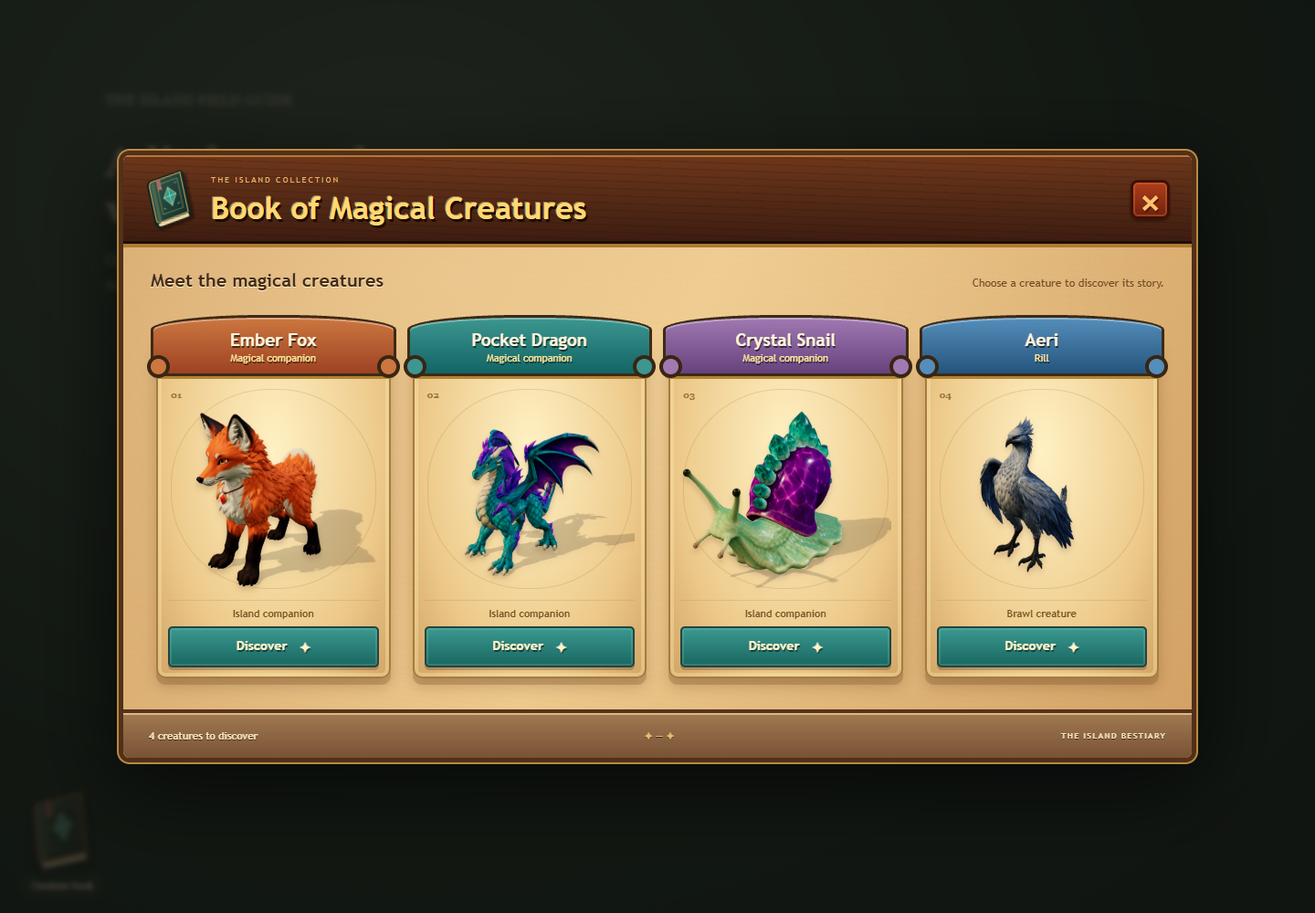
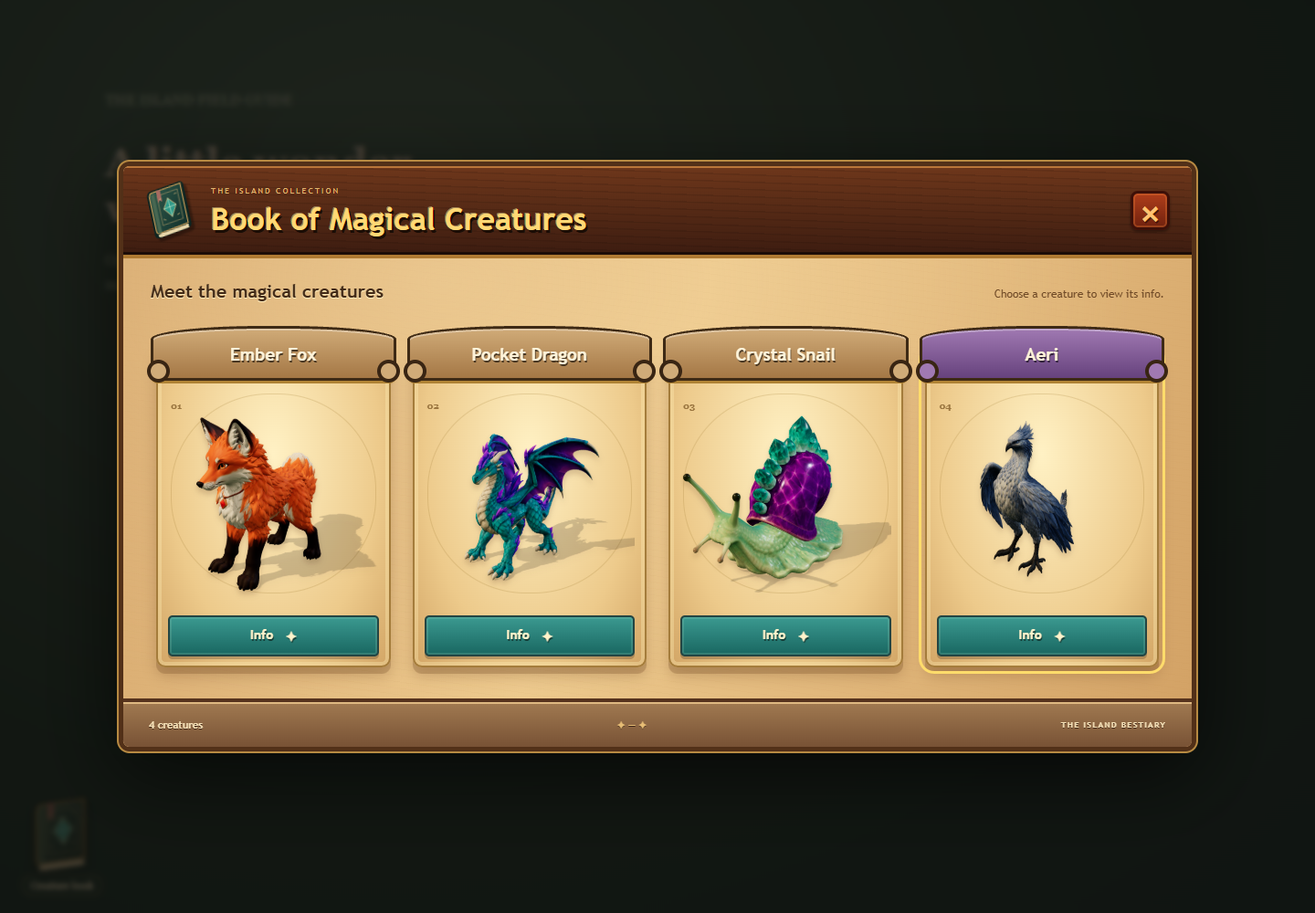
Fix validation bugs: prevent negative transfers/prices and self-transfers

Changed region(s): [[0.0938, 0.155, 0.9062, 0.837], [0.75, 0.465, 0.8125, 0.62]]

diff --git a/public/creature-book.js b/public/creature-book.js
@@ -1,4 +1,4 @@
-/* Read-only field guide. Creature entries never spend resources or change ownership. */
+/* Creature encyclopedia with server-persisted admin editorial fields. */
 (() => {
  const creatures=[
   {kind:'fox',name:'Ember Fox',number:'01',category:'WOODLAND WANDERER',feature:'Ruby pendant',movement:'Walks & runs',note:'Russet fur, alert ears, and a bright ruby pendant make this little wanderer easy to spot. Its careful steps and restless, bushy tail are full of curiosity.',detail:'Look closely: its ears twitch independently, and its paws lift with each step.',quote:'A little warmth on every island path.'},
@@ -7,44 +7,61 @@
   {kind:'snail',name:'Crystal Snail',number:'03',category:'GENTLE CRYSTAL CRAWLER',feature:'Crystal-crowned spiral shell',movement:'Crawls & explores',note:'An amethyst-colored shell crowned with teal crystals shelters this gentle explorer. Tiny waves travel through its soft foot while four curious feelers test the air ahead.',detail:'Look closely: the shell stays firm while the foot and feelers move beneath it.',quote:'Every small journey holds a little wonder.'},
   {kind:'rill',name:'Aeri',species:'Rill',number:'04',category:'RILL / BRAWL CREATURE',feature:'Blue plumage & sweeping wings',movement:'Perched idle',note:'Meet Aeri, a Rill with luminous blue feathers, a proud crest, and long, flowing tail plumes. A calm perched stance reveals the layered wings and graceful silhouette of this magical bird.',detail:'Look closely: Aeri breathes softly, turns its head, and gently settles its wings and tail.',quote:'Still wings. A sky full of possibility.',care:'Aeri is a brawl creature, not a pet. Its battle role and attacks will arrive in a future update.'}
  ];
+ const individualName=c=>c.kind==='rill'?c.name:'';
+ const title=c=>individualName(c)||c.species||c.name;
+ let metadata={},canEdit=false,gameReady=!document.body.classList.contains('island-app');
+ const api=typeof API_URL==='undefined'?'':API_URL;
+ const headers=()=>({'Content-Type':'application/json','X-User-Id':typeof currentUserId==='undefined'?'':currentUserId,'Authorization':`Bearer ${localStorage.getItem('sessionToken')||''}`});
  const icon=`<svg viewBox="0 0 84 96" aria-hidden="true"><defs><linearGradient id="creatureCover" x2="1" y2="1"><stop stop-color="#315b4b"/><stop offset="1" stop-color="#102e2a"/></linearGradient></defs><path d="M15 12 65 5q8-1 8 7v66q0 6-7 8L17 93q-9 1-9-7V23q0-9 7-11Z" fill="#0d2421"/><path d="m18 15 50-7v69l-50 8q-6 1-6-5V23q0-7 6-8Z" fill="url(#creatureCover)" stroke="#bb9555" stroke-width="2"/><path d="m19 86 49-7v6l-49 7q-5 0-5-4Z" fill="#e9d7aa"/><path d="m25 22 36-5v51l-36 5Z" fill="none" stroke="#bba16a" stroke-width=".8"/><path d="m15 19 6-1v66l-6 1Z" fill="#486751"/><path d="m42 29 12 13-10 19-12-15Z" fill="#2f9a8a" stroke="#e3c080"/><path d="m42 29 2 32m-12-15 22-4" fill="none" stroke="#bce3c2" stroke-width="1"/><path d="m25 13 7-1v21l-4-3-3 4Z" fill="#a66b61"/><path d="m28 63 4 2m21-5 4-2M28 29l3-2m23-3 4-1" stroke="#d4b778" stroke-linecap="round"/></svg>`;
  const el=(tag,cls,text)=>{const node=document.createElement(tag);if(cls)node.className=cls;if(text!==undefined)node.textContent=text;return node;};
- const launcher=el('button','creature-book-launcher');launcher.id='creatureBookLauncher';launcher.type='button';launcher.setAttribute('aria-label','Open the Book of Magical Creatures');launcher.setAttribute('aria-haspopup','dialog');launcher.setAttribute('aria-expanded','false');launcher.innerHTML=icon+'<span>Creature book</span>';document.body.append(launcher);
+ const launcher=el('button','creature-book-launcher');launcher.id='creatureBookLauncher';launcher.hidden=!gameReady;launcher.type='button';launcher.setAttribute('aria-label','Open the Book of Magical Creatures');launcher.setAttribute('aria-haspopup','dialog');launcher.setAttribute('aria-expanded','false');launcher.innerHTML=icon+'<span>Creature book</span>';document.body.append(launcher);
  const book=el('dialog','creature-book');book.id='creatureBook';book.setAttribute('aria-labelledby','creatureBookTitle');
- book.innerHTML=`<div class="creature-book-binding"><header class="creature-book-header"><span class="creature-book-emblem" aria-hidden="true">${icon}</span><div><p class="creature-book-overline">THE ISLAND COLLECTION</p><h1 id="creatureBookTitle">Book of Magical Creatures</h1></div><button type="button" class="creature-book-close" aria-label="Close creature book">&times;</button></header><div class="creature-book-gallery-heading"><h2>Meet the magical creatures</h2><p>Choose a creature to discover its story.</p></div><div class="creature-book-grid" aria-label="All magical creatures"></div><footer class="creature-book-footer"><span>${creatures.length} creatures to discover</span><span class="creature-book-footer-flourish" aria-hidden="true">&#10022; &mdash; &#10022;</span><span>THE ISLAND BESTIARY</span></footer></div>`;
+ book.innerHTML=`<div class="creature-book-binding"><header class="creature-book-header"><span class="creature-book-emblem" aria-hidden="true">${icon}</span><div><p class="creature-book-overline">THE ISLAND COLLECTION</p><h1 id="creatureBookTitle">Book of Magical Creatures</h1></div><button type="button" class="creature-book-close" aria-label="Close creature book">&times;</button></header><div class="creature-book-gallery-heading"><h2>Meet the magical creatures</h2><p>Choose a creature to view its info.</p></div><div class="creature-book-grid" aria-label="All magical creatures"></div><footer class="creature-book-footer"><span>${creatures.length} creatures</span><span class="creature-book-footer-flourish" aria-hidden="true">&#10022; &mdash; &#10022;</span><span>THE ISLAND BESTIARY</span></footer></div>`;
  document.body.append(book);
  const detail=el('dialog','creature-detail');detail.id='creatureDetail';detail.setAttribute('aria-labelledby','creatureDetailTitle');
- detail.innerHTML=`<header class="creature-detail-header"><h2 id="creatureDetailTitle"></h2><button type="button" class="creature-book-close" aria-label="Close creature information">&times;</button></header><div class="creature-detail-body"><section class="creature-detail-art" aria-label="Animated creature"><div class="creature-detail-banner"></div><div class="creature-book-portrait"></div><p class="creature-book-quote"></p></section><section class="creature-detail-info"><h3>Information</h3><dl class="creature-book-facts"></dl><p class="creature-book-lore"></p><p class="creature-book-observation"></p><div class="creature-detail-care"><h3></h3><p class="creature-book-care"></p></div></section></div><footer class="creature-detail-footer"><button type="button" class="creature-detail-back">&#8592; Back to creatures</button><button type="button" class="creature-book-model">View in 3D &#8599;</button></footer>`;
+ detail.innerHTML=`<header class="creature-detail-header"><h2 id="creatureDetailTitle"></h2><button type="button" class="creature-book-close" aria-label="Close creature information">&times;</button></header><div class="creature-detail-body"><section class="creature-detail-art" aria-label="Animated creature"><div class="creature-detail-banner"></div><div class="creature-book-portrait"></div></section><section class="creature-detail-info"><h3>Information</h3><dl class="creature-book-facts"></dl><p class="creature-book-lore"></p><dl class="creature-book-origin"></dl><section class="creature-individual"><h3>About this creature</h3><p></p></section></section></div><footer class="creature-detail-footer"><button type="button" class="creature-detail-back">&#8592; Back to creatures</button><button type="button" class="creature-edit-button" hidden>Edit entry</button></footer>`;
  document.body.append(detail);
  const q=selector=>book.querySelector(selector),d=selector=>detail.querySelector(selector);
  let selected=0,returnFocus=null,selectedCard=null;
- const role=c=>c.kind==='rill'?'Brawl creature':'Island companion';
+
  const poster=c=>c.kind==='rill'?'assets/creatures/aeri-poster.png':`assets/companions/${c.kind}-meshy-poster.png`;
  const species=c=>c.species||c.name;
- const tones={fox:'ember',dragon:'teal',snail:'violet',rill:'blue'};
+ const rarity=c=>metadata[c.kind]?.rarity||'unassigned';
  for(const [i,c] of creatures.entries()){
-  const card=el('button','creature-book-card');card.type='button';card.dataset.kind=c.kind;card.dataset.tone=tones[c.kind];card.setAttribute('aria-label',`Discover ${c.name}`);card.setAttribute('aria-haspopup','dialog');
-  card.innerHTML=`<span class="creature-card-ribbon"><strong>${c.name}</strong><span>${c.species||'Magical companion'}</span></span><span class="creature-card-number" aria-hidden="true">${c.number}</span><span class="creature-card-art"><img src="${poster(c)}" alt="" loading="eager"></span><span class="creature-card-role">${role(c)}</span><span class="creature-card-action">Discover <span aria-hidden="true">&#10022;</span></span>`;
+  const card=el('button','creature-book-card');card.type='button';card.dataset.kind=c.kind;card.dataset.rarity=rarity(c);card.setAttribute('aria-label',`Info about ${title(c)}`);card.setAttribute('aria-haspopup','dialog');
+  card.innerHTML=`<span class="creature-card-ribbon"><strong>${title(c)}</strong></span><span class="creature-card-number" aria-hidden="true">${c.number}</span><span class="creature-card-art"><img src="${poster(c)}" alt="" loading="eager"></span><span class="creature-card-action">Info <span aria-hidden="true">&#10022;</span></span>`;
   card.onclick=()=>showCreature(i,card);q('.creature-book-grid').append(card);
  }
- function showCreature(i,card){selected=i;selectedCard=card;const c=creatures[i];detail.dataset.tone=tones[c.kind];d('h2').textContent=c.name;d('.creature-detail-banner').textContent=role(c);d('.creature-book-quote').textContent=c.quote;
+ function renderInfo(){const c=creatures[selected],entry=metadata[c.kind]||{};detail.dataset.rarity=rarity(c);d('h2').textContent=title(c);d('.creature-detail-banner').textContent=title(c);
+  const facts=d('.creature-book-facts');facts.replaceChildren(el('dt','','Species'),el('dd','',species(c)));
+  d('.creature-book-lore').textContent=entry.description!==undefined?entry.description:c.kind==='rill'?'Rills are magical birds with blue plumage, a proud crest, layered wings, and long, flowing tail feathers.':c.note;
+  const origin=d('.creature-book-origin');origin.replaceChildren(el('dt','','Origin'),el('dd','',entry.origin||'Not recorded'));
+  d('.creature-individual').hidden=!individualName(c);d('.creature-individual p').textContent=entry.individualDescription||'No individual description recorded.';
+  d('.creature-edit-button').hidden=!canEdit;
+ }
+ function showCreature(i,card){selected=i;selectedCard=card;const c=creatures[i];renderInfo();
   const portrait=d('.creature-book-portrait');if(c.kind==='rill'){import('./companion-3d.js?v=rill1').catch(error=>console.error('Rill portrait:',error));portrait.innerHTML='<span class="companion-illustration companion-3d-art" data-species="rill" data-rill-3d aria-hidden="true"><img class="fox-model-poster" src="assets/creatures/aeri-poster.png" alt=""></span>';}else portrait.innerHTML=window.companionArt('pet:'+c.kind);
-  const facts=d('dl');facts.replaceChildren();for(const [label,value] of [['Species',species(c)],['Role',role(c)],['Movement',c.movement],['Signature',c.feature]])facts.append(el('dt','',label),el('dd','',value));
-  d('.creature-book-lore').textContent=c.note;d('.creature-book-observation').textContent=c.detail;d('.creature-detail-care h3').textContent=c.kind==='rill'?'Brawl status':'Life on the island';d('.creature-book-care').textContent=c.care||'Available in the Ruby shop. Companions stay in the Lodge and explore the island. Play, cooked meals, and a caretaker help them prepare for journeys.';
   detail.showModal();detail.scrollTop=0;d('.creature-book-close').focus();
  }
+ const editor=el('dialog','creature-entry-editor');editor.setAttribute('aria-labelledby','creatureEditorTitle');
+ editor.innerHTML=`<form><h2 id="creatureEditorTitle">Edit creature information</h2><label>Species description<textarea name="description" maxlength="2000" rows="5"></textarea></label><label>Origin<input name="origin" maxlength="200"></label><label class="creature-editor-individual">Individual description<textarea name="individualDescription" maxlength="2000" rows="4"></textarea></label><label>Rarity<select name="rarity" aria-label="Rarity"><option value="">Unassigned</option><option value="common">Common ? light brown</option><option value="rare">Rare ? blue</option><option value="epic">Epic ? red</option><option value="legendary">Legendary ? yellow</option><option value="unique">Unique ? purple</option></select></label><p role="status" class="creature-editor-status"></p><div><button type="button" class="creature-editor-cancel">Cancel</button><button type="submit">Save changes</button></div></form>`;document.body.append(editor);
+ const form=editor.querySelector('form'),field=name=>form.elements.namedItem(name);
+ d('.creature-edit-button').onclick=()=>{if(!canEdit)return;const c=creatures[selected],entry=metadata[c.kind]||{};field('description').value=d('.creature-book-lore').textContent;field('origin').value=entry.origin||'';field('individualDescription').value=entry.individualDescription||'';field('rarity').value=entry.rarity||'';editor.querySelector('.creature-editor-individual').hidden=!individualName(c);editor.querySelector('[role=status]').textContent='';editor.showModal();field('description').focus();};
+ editor.querySelector('.creature-editor-cancel').onclick=()=>editor.close();editor.addEventListener('close',()=>d('.creature-edit-button').focus());
+ form.onsubmit=async event=>{event.preventDefault();const submit=form.querySelector('[type=submit]'),status=editor.querySelector('[role=status]');submit.disabled=true;status.textContent='Saving...';try{const c=creatures[selected],payload=Object.fromEntries(['description','origin','individualDescription','rarity'].map(n=>[n,field(n).value]));const response=await fetch(api+'/admin/creature-book/'+c.kind,{method:'PUT',headers:headers(),body:JSON.stringify(payload)});if(!response.ok)throw Error(await response.text());metadata[c.kind]=await response.json();renderInfo();q(`[data-kind="${c.kind}"]`).dataset.rarity=rarity(c);editor.close();}catch(error){status.textContent=error.message;}finally{submit.disabled=false;}};
+ async function loadMetadata(){try{const response=await fetch(api+'/creature-book',{headers:headers()});if(!response.ok)throw Error('Creature information is unavailable');const data=await response.json();metadata=data.entries||{};canEdit=data.canEdit===true;for(const c of creatures)q(`[data-kind="${c.kind}"]`).dataset.rarity=rarity(c);if(detail.open)renderInfo();}catch(error){console.warn(error.message);}}
+ window.addEventListener('footy-role-changed',loadMetadata);
  q('.creature-book-close').onclick=()=>book.close();d('.creature-book-close').onclick=()=>detail.close();d('.creature-detail-back').onclick=()=>detail.close();
  detail.addEventListener('close',()=>{d('.creature-book-portrait').replaceChildren();if(book.open&&selectedCard?.isConnected)selectedCard.focus();});
  for(const dialog of [book,detail])dialog.addEventListener('click',event=>{if(event.target!==dialog)return;const r=dialog.getBoundingClientRect();if(event.clientX<r.left||event.clientX>r.right||event.clientY<r.top||event.clientY>r.bottom)dialog.close();});
- d('.creature-book-model').onclick=()=>{const creature=creatures[selected],open=window['open'+creature.kind[0].toUpperCase()+creature.kind.slice(1)+'3DPreview'];if(open){open();return;}
-  const preview=el('dialog','fox-3d-dialog'),frame=el('iframe'),close=el('button','fox-3d-close','Close 3D view');frame.title=creature.name+' interactive view';frame.src=creature.kind+'-3d-preview.html?embedded=1';close.type='button';close.onclick=()=>preview.close();preview.append(frame,close);preview.addEventListener('close',()=>{preview.remove();d('.creature-book-model').focus();},{once:true});document.body.append(preview);preview.showModal();
- };
  // Dialogs occupy the browser top layer. Move the launcher into the active game
  // dialog so it stays clickable on the island, in the Lodge, and in care rooms.
  const opened=[];
- function place(){if(book.open)return;const dialogs=[...document.querySelectorAll('dialog[open]')].filter(d=>d!==book);for(let i=opened.length-1;i>=0;i--)if(!dialogs.includes(opened[i]))opened.splice(i,1);for(const d of dialogs)if(!opened.includes(d))opened.push(d);const target=opened.at(-1)||document.body;if(launcher.parentNode!==target)target.append(launcher);}
+ function place(){const loading=!!document.querySelector('.island-loading-screen[open]')||document.getElementById('islandLoading')?.hidden===false;launcher.hidden=!gameReady||loading;if(book.open)return;const dialogs=[...document.querySelectorAll('dialog[open]')].filter(d=>d!==book);for(let i=opened.length-1;i>=0;i--)if(!dialogs.includes(opened[i]))opened.splice(i,1);for(const d of dialogs)if(!opened.includes(d))opened.push(d);const target=opened.at(-1)||document.body;if(launcher.parentNode!==target)target.append(launcher);}
  const observer=new MutationObserver(records=>{for(const record of records)if(record.type==='attributes'&&record.target.tagName==='DIALOG'&&record.target!==book&&record.target.open){const at=opened.indexOf(record.target);if(at>=0)opened.splice(at,1);opened.push(record.target);}place();});observer.observe(document.body,{childList:true,subtree:true,attributes:true,attributeFilter:['open']});place();
- launcher.onclick=()=>{returnFocus=document.activeElement;book.showModal();launcher.setAttribute('aria-expanded','true');q('.creature-book-close').focus();};
+ launcher.onclick=()=>{if(launcher.hidden)return;loadMetadata();returnFocus=document.activeElement;book.showModal();launcher.setAttribute('aria-expanded','true');q('.creature-book-close').focus();};
  book.addEventListener('close',()=>{if(detail.open)detail.close();launcher.setAttribute('aria-expanded','false');place();if(returnFocus?.isConnected)returnFocus.focus();else launcher.focus();});
+ window.addEventListener('island-ready',()=>{gameReady=true;place();});
+ const loadingPanel=document.getElementById('islandLoading');if(loadingPanel)new MutationObserver(place).observe(loadingPanel,{attributes:true,attributeFilter:['hidden']});
  window.CreatureBook={open:()=>launcher.click(),creatures};
 })();

diff --git a/public/creature-book.css b/public/creature-book.css
@@ -39,3 +39,17 @@
 @media(max-width:900px){.creature-book-grid{gap:20px;padding:32px 26px}.creature-card-art{height:200px}.creature-card-ribbon strong{font-size:15px}.creature-card-ribbon>span{font-size:10px}.creature-detail-body{gap:12px;padding:14px}.creature-book-portrait{height:300px}.creature-detail-info{padding:12px}}
 @media(max-width:650px){#creatureBookLauncher{left:max(12px,env(safe-area-inset-left));bottom:max(12px,env(safe-area-inset-bottom));width:78px;min-height:88px}#creatureBookLauncher svg{width:58px;height:66px}#creatureBookLauncher span{font-size:10px}.village-map:has(>.creature-book-launcher) .village-footer{left:104px;gap:6px}.village-map:has(>.creature-book-launcher) .village-inspector{bottom:110px}#creatureBook,#creatureDetail{width:calc(100vw - 18px);max-height:calc(100dvh - 18px);border-width:3px;border-radius:9px}.creature-book-header{padding:14px 12px;gap:10px}.creature-book-emblem svg{width:35px;height:43px}.creature-book-header h1{font-size:20px}.creature-book-overline{font-size:7px;letter-spacing:.13em}#creatureBook .creature-book-close,#creatureDetail .creature-book-close{width:35px;height:35px;font-size:28px}.creature-book-gallery-heading{display:block;padding:17px 17px 0}.creature-book-gallery-heading h2{font-size:16px}.creature-book-gallery-heading p{margin-top:5px;font-size:11px}.creature-book-grid{grid-template-columns:repeat(2,minmax(0,1fr));gap:28px 20px;padding:31px 21px 26px}.creature-card-art{height:165px}.creature-card-ribbon{padding:10px 8px;min-height:58px;margin:-12px -16px 0}.creature-card-ribbon strong{font-size:14px}.creature-card-ribbon>span{font-size:9px}.creature-card-role{font-size:9px}.creature-card-action{font-size:12px;padding:9px}.creature-card-number{top:57px;font-size:9px}.creature-book-footer{padding:13px 15px;font-size:10px}.creature-book-footer>span:last-child{display:none}.creature-detail-header{padding:14px 54px}.creature-detail-header h2{font-size:22px}.creature-detail-body{grid-template-columns:1fr;padding:12px;gap:12px}.creature-detail-banner{font-size:15px}.creature-book-portrait{height:240px}.creature-detail-art{padding-top:13px}.creature-detail-footer{padding:0 12px 15px;gap:10px}.creature-detail-footer button{font-size:12px;padding:12px 8px}}
 @media(prefers-reduced-motion:reduce){#creatureBookLauncher svg,#creatureBook .creature-book-card{transition:none}}
+/* Admin-selected rarity colors; unassigned stays neutral until classified. */
+[data-rarity=unassigned],[data-rarity=common]{--ribbon:#a47745;--ribbon-light:#d0ab78}
+[data-rarity=rare]{--ribbon:#24547d;--ribbon-light:#558ebb}
+[data-rarity=epic]{--ribbon:#992e28;--ribbon-light:#d45d46}
+[data-rarity=legendary]{--ribbon:#c29119;--ribbon-light:#ffe17b}
+[data-rarity=unique]{--ribbon:#66427d;--ribbon-light:#a079b2}
+#creatureBookLauncher[hidden],#creatureDetail [hidden],.creature-entry-editor [hidden]{display:none!important}
+.creature-detail-banner{background:linear-gradient(var(--ribbon-light),var(--ribbon));color:#fff1ce;text-shadow:1px 2px #43281299;border-color:#503119}
+[data-rarity=common] .creature-detail-banner,[data-rarity=unassigned] .creature-detail-banner,[data-rarity=legendary] .creature-detail-banner{color:#4a2d13;text-shadow:0 1px #fff7}
+.creature-card-ribbon{min-height:60px}.creature-card-action{margin-top:auto}.creature-card-art{margin-bottom:12px}
+.creature-book-origin{display:grid;grid-template-columns:92px 1fr;gap:0;margin:20px 0 16px;border-top:1px solid #ae854b66;padding-top:13px;font-size:13px}.creature-book-origin dt{font-weight:900}.creature-book-origin dd{margin:0;overflow-wrap:anywhere}
+.creature-individual{padding:14px;border:2px solid #996538;background:#cba46f55;min-height:100px}.creature-individual h3{margin:0 0 8px;font-size:13px}.creature-individual p{margin:0;color:#4b321b;font-size:13px;line-height:1.65;white-space:pre-wrap;overflow-wrap:anywhere}.creature-book-lore{white-space:pre-wrap;overflow-wrap:anywhere}
+.creature-edit-button{background:linear-gradient(#f2d690,#c39342);color:#523517}
+.creature-entry-editor{position:fixed;inset:0;margin:auto;width:min(540px,calc(100vw - 30px));max-height:calc(100dvh - 30px);overflow:auto;padding:24px;border:4px solid #6b4224;border-radius:10px;background:#ebcb95;color:#49301b;font:14px "Trebuchet MS",system-ui;box-sizing:border-box}.creature-entry-editor::backdrop{background:#140c08ba}.creature-entry-editor h2{margin:0 0 20px;font-size:22px}.creature-entry-editor label{display:block;font-weight:700;margin:0 0 15px;color:#49301b}.creature-entry-editor textarea,.creature-entry-editor input,.creature-entry-editor select{display:block;width:100%;box-sizing:border-box;padding:10px;margin-top:6px;border:1px solid #9d7440;border-radius:4px;background:#fff1d0;color:#49301b;font:14px/1.5 system-ui}.creature-entry-editor textarea{resize:vertical}.creature-entry-editor form>div{display:flex;justify-content:flex-end;gap:10px}.creature-entry-editor button{padding:10px 15px;border:2px solid #486248;border-radius:5px;background:#276454;color:#fff0cf;font-weight:700;cursor:pointer}.creature-entry-editor .creature-editor-cancel{background:#d9b278;color:#49301b;border-color:#976d39}.creature-editor-status{color:#713d1c;font-size:12px;min-height:18px}.creature-entry-editor button:disabled{opacity:.6;cursor:wait}

diff --git a/creature-book-routes.test.js b/creature-book-routes.test.js
@@ -1,0 +1,8 @@
+const test=require('node:test'),assert=require('node:assert/strict'),register=require('./creature-book-routes');
+function setup(admin=true,authenticated=true){const routes={},stored={};const db={collection:name=>({get:async()=>({docs:Object.entries(stored).map(([id,data])=>({id,data:()=>data}))}),doc:id=>({get:async()=>({exists:true,data:()=>({isAdmin:admin})}),set:async data=>{stored[id]=data;}})})};register({get:(p,h)=>routes['GET '+p]=h,put:(p,h)=>routes['PUT '+p]=h},db,async()=>{if(!authenticated)throw Error('Invalid session');return 'admin-id';});return {routes,stored};}
+async function call(h,{kind='rill',body={},auth=true}={}){const res={statusCode:200,status(n){this.statusCode=n;return this;},set(){return this;},json(v){this.body=v;return this;},send(v){this.body=v;return this;}};await h({params:{kind},body,header:n=>n==='Authorization'&&auth?'Bearer token':''},res);return res;}
+const entry={description:' Species lore ',origin:' Valley ',individualDescription:' Aeri lore ',rarity:'unique'};
+test('admin metadata persists across catalogue reads and remains plain text',async()=>{const {routes,stored}=setup();const result=await call(routes['PUT /admin/creature-book/:kind'],{body:entry});assert.equal(result.statusCode,200);assert.equal(stored.rill.description,'Species lore');assert.equal(stored.rill.individualDescription,'Aeri lore');const read=await call(routes['GET /creature-book']);assert.equal(read.body.canEdit,true);assert.equal(read.body.entries.rill.origin,'Valley');const publicRead=await call(routes['GET /creature-book'],{auth:false});assert.equal(publicRead.body.canEdit,false);assert.equal(publicRead.body.entries.rill.rarity,'unique');});
+test('ordinary users and invalid sessions cannot edit',async()=>{for(const [admin,auth,status] of [[false,true,403],[true,false,401]]){const {routes,stored}=setup(admin,auth);assert.equal((await call(routes['PUT /admin/creature-book/:kind'],{body:entry})).statusCode,status);assert.deepEqual(stored,{});}});
+test('unknown kinds, invalid rarities and oversized fields are rejected',async()=>{const {routes,stored}=setup(),handler=routes['PUT /admin/creature-book/:kind'];for(const args of [{kind:'../users',body:entry},{body:{...entry,rarity:'mythic'}},{body:{...entry,description:'x'.repeat(2001)}},{body:{...entry,origin:4}}])assert.equal((await call(handler,args)).statusCode,400);assert.deepEqual(stored,{});});
+test('nameless species cannot acquire an individual description; every rarity is supported',()=>{for(const rarity of ['','common','rare','epic','legendary','unique']){const data=register.validateEntry({...entry,rarity},'fox');assert.equal(data.rarity,rarity);assert.equal(data.individualDescription,'');}});

diff --git a/creature-book-routes.js b/creature-book-routes.js
@@ -1,0 +1,33 @@
+const KINDS=new Set(['fox','dragon','snail','rill']);
+const RARITIES=new Set(['','common','rare','epic','legendary','unique']);
+function validateEntry(body,kind){
+ if(!KINDS.has(kind))throw Error('Unknown creature');
+ const result={};
+ for(const [field,max] of [['description',2000],['origin',200],['individualDescription',2000]]){
+  if(typeof body[field]!=='string'||body[field].length>max)throw Error(`Invalid ${field} (maximum ${max} characters)`);
+  result[field]=body[field].trim();
+ }
+ if(!RARITIES.has(body.rarity))throw Error('Choose a valid rarity');
+ result.rarity=body.rarity;
+ if(kind!=='rill')result.individualDescription='';
+ return result;
+}
+module.exports=(app,db,authenticate)=>{
+ app.get('/creature-book',async(req,res)=>{try{
+  const snapshot=await db.collection('creatureBookEntries').get();
+  const entries={};for(const doc of snapshot.docs)if(KINDS.has(doc.id)){const data=doc.data();entries[doc.id]={description:data.description||'',origin:data.origin||'',individualDescription:data.individualDescription||'',rarity:RARITIES.has(data.rarity)?data.rarity:''};}
+  let canEdit=false;
+  if(req.header('Authorization')){try{const id=await authenticate(req),user=await db.collection('users').doc(id).get();canEdit=user.exists&&user.data().isAdmin===true;}catch{}}
+  res.set('Cache-Control','no-store');res.json({entries,canEdit});
+ }catch(e){res.status(500).send('Could not load creature information');}});
+ app.put('/admin/creature-book/:kind',async(req,res)=>{
+  let id;try{id=await authenticate(req);}catch{return res.status(401).send('Please log in again to edit the creature book');}
+  try{
+   const user=await db.collection('users').doc(id).get();if(!user.exists||user.data().isAdmin!==true)return res.status(403).send('Only admins can edit the creature book');
+   let entry;try{entry=validateEntry(req.body||{},req.params.kind);}catch(e){return res.status(400).send(e.message);}
+   await db.collection('creatureBookEntries').doc(req.params.kind).set({...entry,updatedBy:id,updatedAt:new Date().toISOString()});
+   res.json(entry);
+  }catch(e){res.status(500).send('Could not save creature information');}
+ });
+};
+module.exports.validateEntry=validateEntry;

diff --git a/public/village.js b/public/village.js
@@ -127,7 +127,7 @@
    d.classList.remove('village-travelling','village-returning');if(!d.open)d.showModal();if(startup){loadingDialog.close();loadingDialog.showModal();await readyArtwork();}d.scrollTop=0;d.scrollLeft=0;viewport.scrollTop=0;viewport.scrollLeft=0;
    // Let mobile layout settle after restoring the full-screen dialog.
    await new Promise(resolve=>requestAnimationFrame(()=>requestAnimationFrame(resolve)));
-   if(!initialized)reset();else{clamp();applyCamera();}IslandLoading.progress(95,'Finding your way home...');await zoomOut(lastBuilding);lastBuilding=null;IslandLoading.progress(100,'Your island is ready');await new Promise(resolve=>requestAnimationFrame(()=>requestAnimationFrame(resolve)));loadingDialog?.close();startupReady=true;await nameIsland();viewport.focus({preventScroll:true});guide();
+   if(!initialized)reset();else{clamp();applyCamera();}IslandLoading.progress(95,'Finding your way home...');await zoomOut(lastBuilding);lastBuilding=null;IslandLoading.progress(100,'Your island is ready');await new Promise(resolve=>requestAnimationFrame(()=>requestAnimationFrame(resolve)));loadingDialog?.close();startupReady=true;await nameIsland();window.dispatchEvent(new Event('island-ready'));viewport.focus({preventScroll:true});guide();
    if(refresh)refresh.then(ok=>{if(ok&&d.open&&!travelling&&!plotEditor?.editing){options();render();}});
   }catch(e){if(startup){if(d?.open)d.close();const panel=document.getElementById('islandLoading');panel.hidden=false;panel.classList.add('island-load-error');panel.querySelector('.island-load-error-panel p').textContent=e.message;}else{if(d&&!d.open)d.showModal();if(notice)notice.textContent=e.message;}
   }finally{loadingDialog?.close();loading=false;travelling=false;d?.classList.remove('village-travelling','village-returning');if(jump)jump.disabled=false;toggle.disabled=false;back.disabled=false;}

diff --git a/public/creature-book-preview.html b/public/creature-book-preview.html
@@ -1,1 +1,1 @@
-<!doctype html><html lang="en"><head><meta charset="utf-8"><meta name="viewport" content="width=device-width,initial-scale=1"><title>Book of Magical Creatures</title><link rel="icon" href="assets/pwa/island-icon-v3-192.png"><link rel="stylesheet" href="ruby-shop.css?v=20261013-snail1"><link rel="stylesheet" href="creature-book.css?v=3-gallery"><style>body{margin:0;min-height:100vh;background:radial-gradient(ellipse at 30% 20%,#456757,#17382f 60%,#102d2d);color:#e8dbc0;font:16px Georgia,serif}main{padding:8vh 8vw}h1{font-size:44px;margin-bottom:18px}p{color:#b8c8ad;line-height:1.7;max-width:460px}</style></head><body><main><p>THE ISLAND FIELD GUIDE</p><h1>A little wonder,<br>within these pages.</h1><p>Open the book in the bottom-left corner to meet the island's magical companions.</p></main><script src="companions.js?v=20261013-rill1"></script><script src="creature-book.js?v=3-gallery"></script></body></html>
+<!doctype html><html lang="en"><head><meta charset="utf-8"><meta name="viewport" content="width=device-width,initial-scale=1"><title>Book of Magical Creatures</title><link rel="icon" href="assets/pwa/island-icon-v3-192.png"><link rel="stylesheet" href="ruby-shop.css?v=20261013-snail1"><link rel="stylesheet" href="creature-book.css?v=4-editor"><style>body{margin:0;min-height:100vh;background:radial-gradient(ellipse at 30% 20%,#456757,#17382f 60%,#102d2d);color:#e8dbc0;font:16px Georgia,serif}main{padding:8vh 8vw}h1{font-size:44px;margin-bottom:18px}p{color:#b8c8ad;line-height:1.7;max-width:460px}</style></head><body><main><p>THE ISLAND FIELD GUIDE</p><h1>A little wonder,<br>within these pages.</h1><p>Open the book in the bottom-left corner to meet the island's magical companions.</p></main><script src="companions.js?v=20261013-rill1"></script><script src="creature-book.js?v=4-editor"></script></body></html>

diff --git a/public/index.html b/public/index.html
@@ -9,7 +9,7 @@
   <link rel="stylesheet" href="style.css">
   <link rel="stylesheet" href="studio.css">
   <link rel="stylesheet" href="ruby-shop.css?v=20261013-snail1">
-  <link rel="stylesheet" href="creature-book.css?v=3-gallery">
+  <link rel="stylesheet" href="creature-book.css?v=4-editor">
 <link rel="stylesheet" href="pack-cinema.css">
 <link rel="stylesheet" href="village.css?v=20261012-fox3d">
 <link rel="stylesheet" href="village-interiors.css">
@@ -599,7 +599,7 @@
 <script src="market-street.js"></script>
 <script src="island-minigames.js"></script>
 <script src="player-profile.js"></script>
-<script src="village.js?v=20261012-fox3d"></script>
-<script src="creature-book.js?v=3-gallery"></script>
+<script src="village.js?v=20261013-bookready"></script>
+<script src="creature-book.js?v=4-editor"></script>
 </body>
 </html>

diff --git a/server.js b/server.js
@@ -2676,6 +2676,7 @@ require('./town-hall-routes')(app, db, brawlAuth.authenticate);
 require('./trophy-routes')(app, db, getBattleCardsForUser, brawlAuth.authenticate);
 require('./gem-workshop-routes')(app, db, getAscendTierConfig);
 require('./ruby-shop-routes')(app, db, brawlAuth.authenticate);
+require('./creature-book-routes')(app, db, brawlAuth.authenticate);
 
 /* ------------------ START SERVER ------------------ */
 const PORT = process.env.PORT || 3000;
